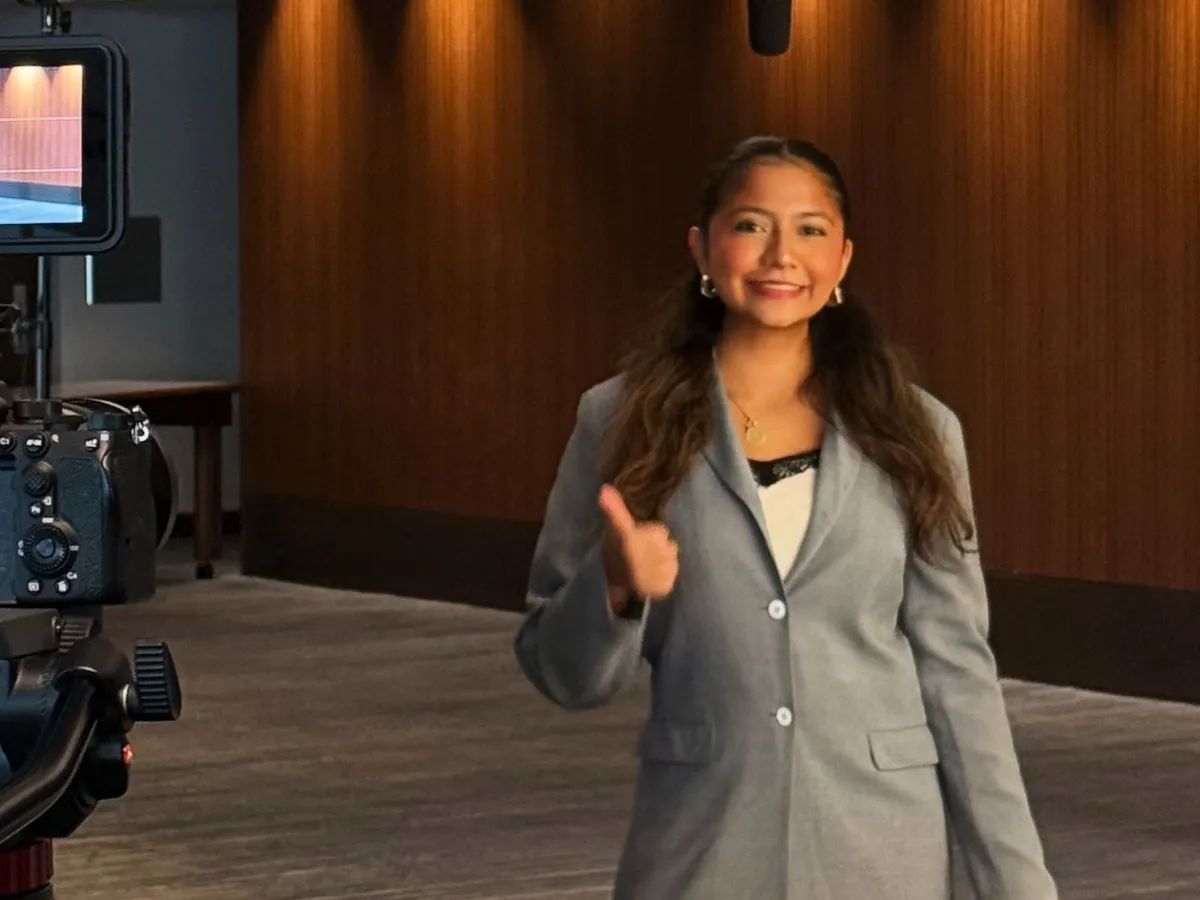
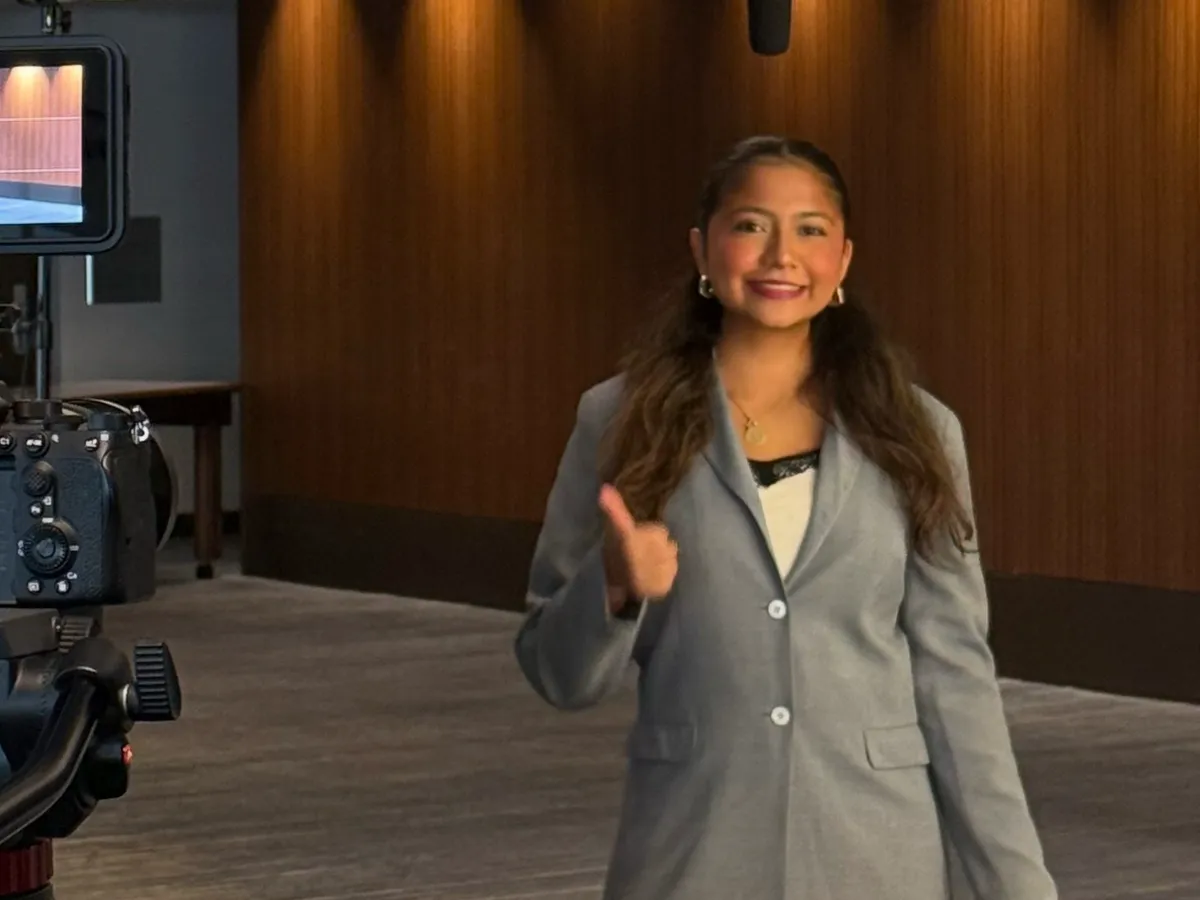
About: switch to the final edited photo; ignore HEIC originals
- Re-export Assets/about-me.jpg and about-me.webp from the final edited photo
  (same 4:3 framing, 1200x900, progressive JPEG q82, metadata stripped).
- Cache-bust both URLs with ?v=4 and update the alt text to describe the photo.
- .gitignore: ignore *.heic / *.HEIC source photos so originals aren't published.

diff --git a/index.html b/index.html
@@ -2080,8 +2080,8 @@
     <div class="about-grid">
       <div class="reveal reveal-delay-1">
         <picture class="about-picture">
-          <source srcset="Assets/about-me.webp" type="image/webp">
-          <img class="about-photo" src="Assets/about-me.jpg" alt="Angelina Ponce giving a thumbs up in front of a video camera setup at an event" width="1200" height="900" loading="lazy" decoding="async">
+          <source srcset="Assets/about-me.webp?v=4" type="image/webp">
+          <img class="about-photo" src="Assets/about-me.jpg?v=4" alt="Angelina Ponce in a grey blazer, smiling and giving a thumbs up beside a camera monitor during a filmed interview" width="1200" height="900" loading="lazy" decoding="async">
         </picture>
       </div>
       <div class="reveal reveal-delay-2">
